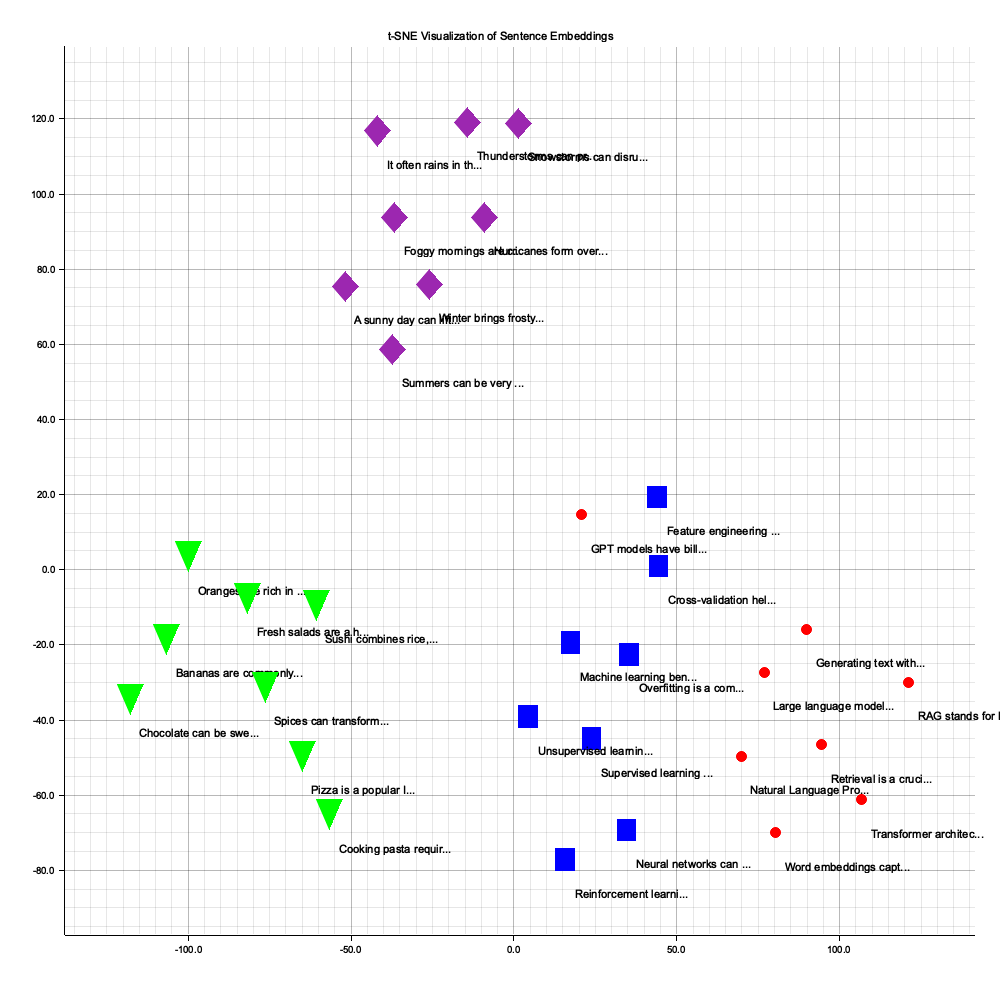
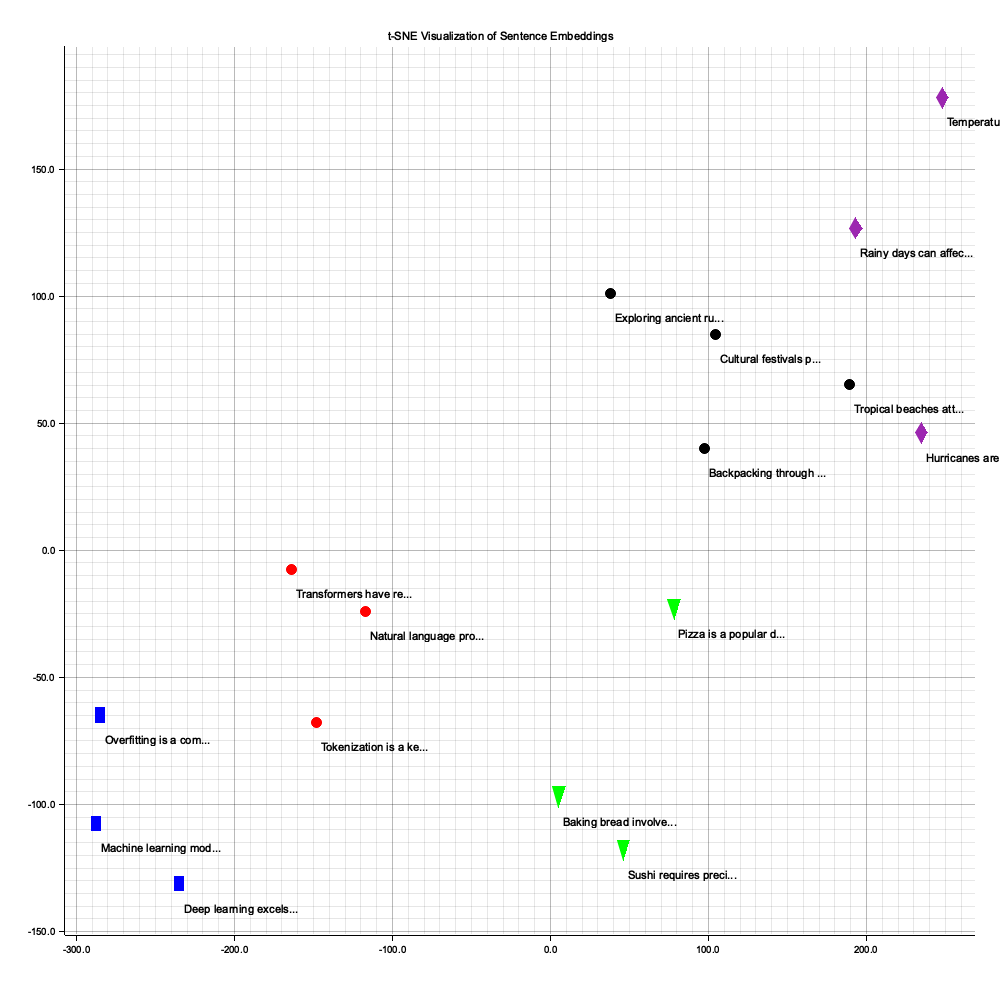
added new category

Changed region(s): [[0.031, 0.062, 1.0, 0.961]]

diff --git a/t-sne/src/main.rs b/t-sne/src/main.rs
@@ -7,9 +7,6 @@ use plotters::prelude::full_palette::PURPLE;
 use plotters::prelude::*;
 use std::collections::HashMap;
 
-/// Computes 2D t-SNE embeddings of the sentences in the corpus,
-/// prints out the coordinates of each sentence, and plots the
-/// embeddings using Plotters.
 #[tokio::main]
 async fn main() -> Result<(), Box<dyn std::error::Error>> {
     let (sentences, categories) = data::get_sentences_and_categories();
@@ -32,15 +29,6 @@ async fn main() -> Result<(), Box<dyn std::error::Error>> {
     Ok(())
 }
 
-/// Returns two maps:
-/// - A `HashMap<&'static str, RGBColor>` mapping each category to its associated color.
-/// - A `HashMap<&'static str, ShapeStyle>` mapping each category to its associated shape style.
-///
-/// The categories and their associated colors and shape styles are:
-/// - NLP: red, filled rectangle
-/// - ML: blue, filled rectangle
-/// - Food: green, filled rectangle
-/// - Weather: purple, filled rectangle
 fn get_color_and_shape_maps() -> (
     HashMap<&'static str, RGBColor>,
     HashMap<&'static str, ShapeStyle>,
@@ -50,6 +38,7 @@ fn get_color_and_shape_maps() -> (
         ("ML", BLUE),
         ("Food", GREEN),
         ("Weather", PURPLE),
+        // TODO: Add your new category color here
     ]);
 
     let shape_map = HashMap::from([
@@ -57,21 +46,12 @@ fn get_color_and_shape_maps() -> (
         ("ML", BLUE.filled()),
         ("Food", GREEN.filled()),
         ("Weather", PURPLE.filled()),
+        // TODO: Add your new category shape here
     ]);
 
     (color_map, shape_map)
 }
 
-/// Computes 2D t-SNE embeddings of the sentences in the input slice of strings.
-///
-/// The input slice of strings is first embedded using the SentenceEmbedder, which
-/// uses a sentence transformer to convert the sentences into vectors of fixed
-/// dimensionality. The vectors are then passed to the Barnes-Hut t-SNE algorithm,
-/// which reduces the dimensionality of the embeddings to two.
-///
-/// The perplexity, number of epochs, and learning rate are set to values that
-/// work well for this particular dataset. The Barnes-Hut parameter theta is
-/// set to 0.3, which is a good tradeoff between accuracy and speed.
 async fn compute_tsne_embeddings(
     sentences: &[&str],
 ) -> Result<Vec<f32>, Box<dyn std::error::Error>> {
@@ -81,34 +61,19 @@ async fn compute_tsne_embeddings(
 
     let mut tsne = bhtsne::tSNE::new(&samples);
     tsne.embedding_dim(2)
-        .perplexity(10.66) // Increased for better global structure
-        .epochs(1000) // Increased for better convergence
-        .barnes_hut(0.3, |a, b| {
-            // Lower theta for higher accuracy
+        .perplexity(5.0)
+        .epochs(3000)
+        .barnes_hut(0.5, |a, b| {
             a.iter()
                 .zip(b.iter())
                 .map(|(x, y)| (x - y).powi(2))
                 .sum::<f32>()
                 .sqrt()
-        })
-        .learning_rate(200.0); // Explicit learning rate
+        });
 
     Ok(tsne.embedding())
 }
 
-/// Plots the 2D t-SNE embeddings of the sentences in the input slice of strings, using
-/// different colors and shapes for different categories.
-///
-/// The input slice of strings is first embedded using the SentenceEmbedder, which uses a
-/// sentence transformer to convert the sentences into vectors of fixed dimensionality.
-/// The vectors are then passed to the Barnes-Hut t-SNE algorithm, which reduces the
-/// dimensionality of the embeddings to two.
-///
-/// The perplexity, number of epochs, and learning rate are set to values that work well
-/// for this particular dataset. The Barnes-Hut parameter theta is set to 0.3, which is
-/// a good tradeoff between accuracy and speed.
-///
-/// The plot is saved to a file named "tsne_plot.png".
 fn plot_tsne_embedding(
     points: &[f32],
     labels: &[String],
@@ -185,6 +150,10 @@ fn plot_tsne_embedding(
                     ],
                     color.filled(),
                 )))?;
+            }
+            // TODO: Handle the new category case here
+            "Travel" => {
+                chart.draw_series(std::iter::once(Circle::new((*x, *y), 5, color.filled())))?;
             }
             _ => {
                 chart.draw_series(std::iter::once(Circle::new((*x, *y), 5, BLACK.filled())))?;

diff --git a/t-sne/src/data.rs b/t-sne/src/data.rs
@@ -1,51 +1,45 @@
 pub fn get_sentences_and_categories() -> (Vec<String>, Vec<String>) {
     let sentences = vec![
-        // NLP
-        "RAG stands for Retrieval-Augmented Generation.",
-        "Retrieval is a crucial aspect of modern NLP systems.",
-        "Generating text with correct facts is challenging.",
-        "Large language models can generate coherent text.",
-        "GPT models have billions of parameters.",
-        "Natural Language Processing enables computers to understand human language.",
-        "Word embeddings capture semantic relationships between words.",
-        "Transformer architectures revolutionized NLP research.",
-        // ML
-        "Machine learning benefits from large datasets.",
-        "Supervised learning requires labeled data.",
-        "Reinforcement learning is inspired by behavioral psychology.",
-        "Neural networks can learn complex functions.",
-        "Overfitting is a common problem in ML.",
-        "Unsupervised learning uncovers hidden patterns in data.",
-        "Feature engineering is critical for model performance.",
-        "Cross-validation helps in assessing model generalization.",
-        // Food
-        "Bananas are commonly used in smoothies.",
-        "Oranges are rich in vitamin C.",
-        "Pizza is a popular Italian dish.",
-        "Cooking pasta requires boiling water.",
-        "Chocolate can be sweet or bitter.",
-        "Fresh salads are a healthy and refreshing meal.",
-        "Sushi combines rice, fish, and seaweed in a delicate balance.",
-        "Spices can transform simple ingredients into gourmet dishes.",
-        // Weather
-        "It often rains in the Amazon rainforest.",
-        "Summers can be very hot in the desert.",
-        "Hurricanes form over warm ocean waters.",
-        "Snowstorms can disrupt transportation.",
-        "A sunny day can lift people's mood.",
-        "Foggy mornings are common in coastal regions.",
-        "Winter brings frosty nights and chilly winds.",
-        "Thunderstorms can produce lightning and heavy rain.",
-    ]
-    .into_iter()
-    .map(|s| s.to_string())
-    .collect();
+        // Existing sentences
+        "Natural language processing involves analyzing text data.".to_string(),
+        "Tokenization is a key step in preparing text for models.".to_string(),
+        "Transformers have revolutionized NLP tasks.".to_string(),
+        "Machine learning models require large datasets.".to_string(),
+        "Deep learning excels in complex pattern recognition.".to_string(),
+        "Overfitting is a common issue in training ML models.".to_string(),
+        "Pizza is a popular dish with many regional variations.".to_string(),
+        "Sushi requires precise preparation techniques.".to_string(),
+        "Baking bread involves kneading and proofing dough.".to_string(),
+        "Rainy days can affect outdoor activities.".to_string(),
+        "Temperature fluctuations impact crop growth.".to_string(),
+        "Hurricanes are powerful tropical storms.".to_string(),
+        // New Travel sentences
+        "Exploring ancient ruins offers a glimpse into history.".to_string(),
+        "Backpacking through Europe is a popular adventure.".to_string(),
+        "Tropical beaches attract tourists year-round.".to_string(),
+        "Cultural festivals provide unique travel experiences.".to_string(),
+    ];
 
-    let mut categories = Vec::new();
-    categories.extend(vec!["NLP".to_string(); 8]);
-    categories.extend(vec!["ML".to_string(); 8]);
-    categories.extend(vec!["Food".to_string(); 8]);
-    categories.extend(vec!["Weather".to_string(); 8]);
+    let categories = vec![
+        // Existing categories
+        "NLP".to_string(),
+        "NLP".to_string(),
+        "NLP".to_string(),
+        "ML".to_string(),
+        "ML".to_string(),
+        "ML".to_string(),
+        "Food".to_string(),
+        "Food".to_string(),
+        "Food".to_string(),
+        "Weather".to_string(),
+        "Weather".to_string(),
+        "Weather".to_string(),
+        // New Travel categories
+        "Travel".to_string(),
+        "Travel".to_string(),
+        "Travel".to_string(),
+        "Travel".to_string(),
+    ];
 
     (sentences, categories)
 }
